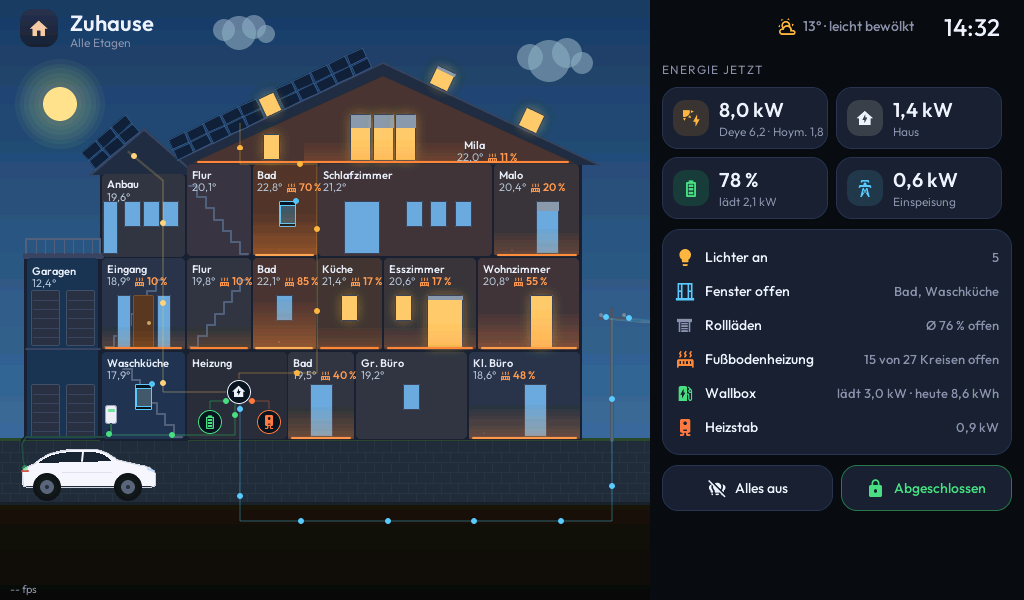
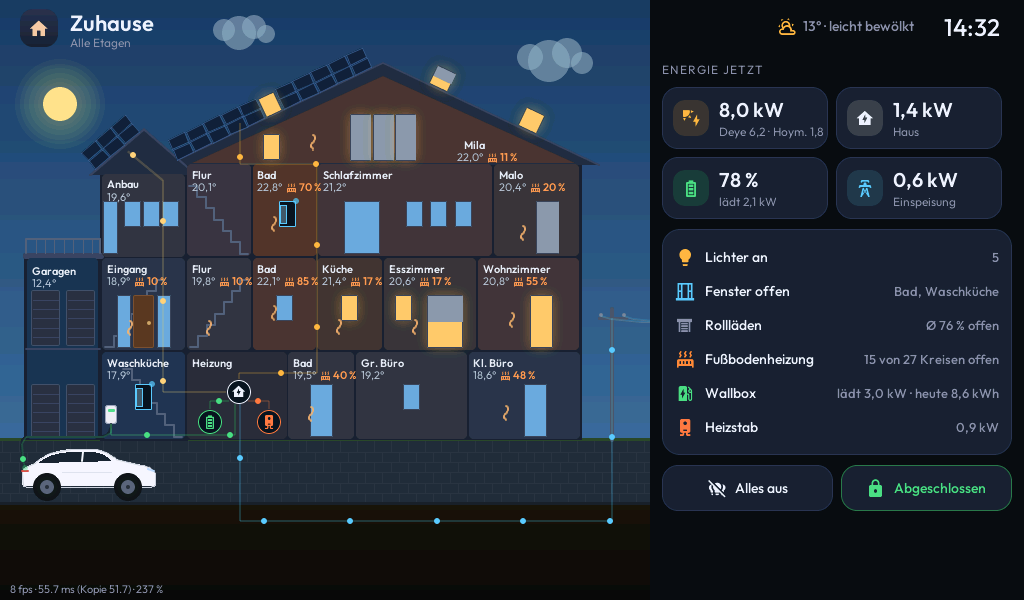
Fußbodenheizung: aufsteigende Wärmewellen statt glühendem Boden (#1)
Glutlinie und Farbverlauf am Boden entfallen; feine Wärmewellen steigen auf und verblassen, Anzahl, Tempo und Höhe folgen der Ventilöffnung. Vorschau wartet auf das erste Bild statt fest 4 s. Screenshots und Demo-GIF neu gerendert.

Claude-Session: https://claude.ai/code/session_01DgtLp9KL3ghCu5CXX829wd

diff --git a/core/house.h b/core/house.h
@@ -5,7 +5,7 @@
 //    Solarmodule, Raumfarben (nach Temperatur), Garagen, Hof, Auto, Strommast.
 //    Neu gezeichnet wird nur, wenn sich Tag/Nacht oder eine Temperatur ändert.
 //  * Darüber liegen LVGL-Objekte für alles, was lebt: Fenster (Licht, Rollladen,
-//    offen), Heizung (Glutlinie, Funken), Energiefluss (Punkte), Beschriftungen.
+//    offen), Heizung (aufsteigende Wärmewellen), Energiefluss (Punkte), Beschriftungen.
 //  * Rechts eine Seitenleiste: Übersicht oder der angetippte Raum.
 //
 // Koordinaten unten sind die des Mockups (viewBox -24 0 692 640) und werden
@@ -129,10 +129,10 @@ struct RoomState {
   bool smoke = false;
   // Objekte
   lv_obj_t *hit = nullptr, *name = nullptr, *temp_l = nullptr, *chip_i = nullptr, *chip_v = nullptr;
-  lv_obj_t *heat_glow = nullptr, *heat_line = nullptr, *alarm = nullptr;
+  lv_obj_t *alarm = nullptr;
   lv_obj_t *layer = nullptr;  // Behälter für alle Objekte des Raums
   int32_t gx = 0, gy = 0;     // seine Lage in der Szene
-  std::vector<lv_obj_t *> sparks;
+  std::vector<lv_obj_t *> waves;  // aufsteigende Wärmewellen
   std::vector<Pane *> panes;
 };
 
@@ -540,10 +540,10 @@ inline void h_cb(void *v, int32_t x) { lv_obj_set_height((lv_obj_t *) v, x); }
 inline void rot_cb(void *v, int32_t x) { lv_obj_set_style_transform_rotation((lv_obj_t *) v, x, 0); }
 inline void ty_cb(void *v, int32_t x) {
   lv_obj_set_style_translate_y((lv_obj_t *) v, -x, 0);
-  // Funken: oben verglühen
+  // Wärmewellen: schnell sichtbar, oben verblassen
   int32_t span = (int32_t) (intptr_t) lv_obj_get_user_data((lv_obj_t *) v);
   int32_t o = span > 0 ? (x < span / 6 ? x * 255 * 6 / span : 255 - (x - span / 6) * 255 / std::max<int32_t>(1, span * 5 / 6)) : 0;
-  lv_obj_set_style_opa((lv_obj_t *) v, LV_CLAMP(0, o, 230), 0);
+  lv_obj_set_style_opa((lv_obj_t *) v, LV_CLAMP(0, o, 190), 0);
 }
 
 inline void anim(void *var, lv_anim_exec_xcb_t cb, int32_t a, int32_t b, uint32_t ms, lv_anim_path_cb_t path = lv_anim_path_ease_out,
@@ -692,35 +692,20 @@ inline uint32_t heat_color(float v) {
 inline void paint_heat(int ri) {
   auto &d = rooms_def()[ri];
   auto &r = rooms[ri];
-  if (r.heat_line == nullptr)
+  if (r.waves.empty())
     return;
   float k = avg_open(r) / 100.0f;
   bool on = k > 0.005f;
-  set_hidden(r.heat_line, !on);
-  set_hidden(r.heat_glow, !on);
-  if (on) {
-    int32_t hh = lroundf(D(d.h) * (0.22f + 0.4f * k));
-    int32_t bottom = d.shape == ROOFROOM ? Y(172) : Y(d.y + d.h - 2);
-    lv_obj_set_y(r.heat_glow, bottom - hh - r.gy);
-    lv_obj_set_height(r.heat_glow, hh);
-    lv_obj_set_style_bg_grad_opa(r.heat_glow, lroundf(255 * (0.18f + 0.3f * k)), 0);
-    lv_obj_set_style_bg_color(r.heat_line, C(heat_color(45 + 35 * k)), 0);
-    lv_obj_set_style_shadow_color(r.heat_line, C(heat_color(40 + 30 * k)), 0);
-    uint32_t dur = lroundf(4200 - 2200 * k);
-    anim(r.heat_line, opa_cb, 255, lroundf(255 * (0.45f + 0.15f * k)), dur / 2, lv_anim_path_ease_in_out, -1, dur / 2);
-  } else {
-    lv_anim_delete(r.heat_line, opa_cb);
-  }
-  // Funken: Anzahl nach Breite und Öffnung
-  size_t want = on ? (size_t) std::max(1L, lroundf(D(d.w) / 56.0f * (0.4f + k))) : 0;
-  for (size_t i = 0; i < r.sparks.size(); i++) {
-    lv_obj_t *s = r.sparks[i];
+  // Wärmewellen: Anzahl nach Breite und Öffnung
+  size_t want = on ? (size_t) std::max(1L, lroundf(D(d.w) / 44.0f * (0.4f + k))) : 0;
+  for (size_t i = 0; i < r.waves.size(); i++) {
+    lv_obj_t *s = r.waves[i];
     bool use = i < want;
     set_hidden(s, !use);
     if (use) {
       int32_t span = lroundf(D(d.h) * (0.3f + 0.35f * k));
       lv_obj_set_user_data(s, (void *) (intptr_t) span);
-      anim(s, ty_cb, 0, span, lroundf(5500 - 2000 * k), lv_anim_path_ease_out, -1, 0, (uint32_t) ((i * 1700) % 5000));
+      anim(s, ty_cb, 0, span, lroundf(6000 - 2000 * k), lv_anim_path_linear, -1, 0, (uint32_t) ((i * 1900) % 6000));
     } else {
       lv_anim_delete(s, ty_cb);
     }
@@ -803,23 +788,31 @@ inline void build_heat(int ri) {
   bool roofroom = d.shape == ROOFROOM;
   float x0 = roofroom ? 186 : d.x + 4, x1 = roofroom ? 582 : d.x + d.w - 4;
   int32_t fy = roofroom ? Y(172) : Y(d.y + d.h - 4);
-  // Schein: senkrechter Verlauf von unten (orange) nach oben (transparent)
-  r.heat_glow = box(ui.scene, X(roofroom ? 300 : d.x + 1), fy, roofroom ? D(170) : D(d.w - 2), 10, 0xFF8A3D);
-  lv_obj_set_style_bg_grad_color(r.heat_glow, C(0xFF8A3D), 0);
-  lv_obj_set_style_bg_grad_dir(r.heat_glow, LV_GRAD_DIR_VER, 0);
-  lv_obj_set_style_bg_main_opa(r.heat_glow, LV_OPA_TRANSP, 0);
-  // Glutlinie mit Lichthof
-  r.heat_line = box(ui.scene, X(x0), fy, X(x1) - X(x0), 2, 0xFF8A3D, LV_OPA_COVER, 1);
-  lv_obj_set_style_shadow_width(r.heat_line, D(7), 0);
-  lv_obj_set_style_shadow_opa(r.heat_line, 110, 0);
-  // Funken (werden je nach Bedarf benutzt)
-  int n = std::max(1, (int) lroundf(D(x1 - x0) / 56.0f * 1.4f));
+  // Aufsteigende Wärmewellen: senkrechte Schlangenlinien wie im Heizungssymbol
+  // (werden je nach Bedarf benutzt). Zwei gespiegelte Formen für etwas Abwechslung.
+  static lv_point_precise_t wave[2][8];
+  static bool wave_init = false;
+  if (!wave_init) {
+    for (int j = 0; j < 8; j++)
+      for (int m = 0; m < 2; m++)
+        wave[m][j] = {(lv_value_precise_t) lroundf(3 + (m ? -2.2f : 2.2f) * sinf(j * 0.9f)), (lv_value_precise_t) (j * 2)};
+    wave_init = true;
+  }
+  // Lage nach dem goldenen Schnitt: auch die ersten wenigen verteilen sich über die ganze Breite
+  int n = std::max(1, (int) lroundf(D(x1 - x0) / 44.0f * 1.4f));
   for (int i = 0; i < n; i++) {
-    int32_t sx = X(x0) + (X(x1) - X(x0)) * (2 * i + 1) / (2 * n) + ((i * 37) % 13) - 6;
-    lv_obj_t *s = box(ui.scene, sx, fy - 4, 2, 2, 0xFFD9A0, LV_OPA_COVER, LV_RADIUS_CIRCLE);
+    float f = fmodf((i + 0.5f) * 0.618034f, 1.0f);
+    int32_t sx = X(x0) + lroundf((X(x1) - X(x0) - 6) * f);
+    lv_obj_t *s = lv_line_create(ui.scene);
+    lv_line_set_points(s, wave[i % 2], 8);
+    lv_obj_set_pos(s, sx, fy - 16);
+    lv_obj_set_style_line_color(s, C(0xFFB777), 0);
+    lv_obj_set_style_line_width(s, 2, 0);
+    lv_obj_set_style_line_rounded(s, true, 0);
+    lv_obj_remove_flag(s, LV_OBJ_FLAG_CLICKABLE);
     lv_obj_set_style_opa(s, 0, 0);
     set_hidden(s, true);
-    r.sparks.push_back(s);
+    r.waves.push_back(s);
   }
 }
 
@@ -1631,11 +1624,11 @@ inline void build() {
 
 // Heizkreise legen ihre Objekte beim ersten Wert an
 inline void ensure_heat(int ri) {
-  if (rooms[ri].heat_line == nullptr && !rooms[ri].circuits.empty()) {
+  if (rooms[ri].waves.empty() && !rooms[ri].circuits.empty()) {
     uint32_t from = lv_obj_get_child_count(ui.scene);
     build_heat(ri);
     adopt(rooms[ri], from);
-    // Beschriftung über die Glut legen
+    // Beschriftung über die Wärmewellen legen
     lv_obj_move_foreground(rooms[ri].name);
     lv_obj_move_foreground(rooms[ri].temp_l);
     lv_obj_move_foreground(rooms[ri].chip_i);

diff --git a/README.md b/README.md
@@ -43,7 +43,7 @@ All screenshots are rendered from the firmware in CI on every change, with sampl
 **The house (left)**
 - **Rooms coloured by temperature**, from cool blue to warm, with name, temperature and heating valve opening
 - **Windows that live:** they glow warm when the light is on, the roller shutter sits at its real position, and an open window swings its sash inwards with a pulsing dot. All three at the same time.
-- **Floor heating:** a thin ember line on the floor that breathes, a soft glow and a few rising sparks; brighter, faster and more of them the wider the valves are open
+- **Floor heating:** thin heat waves rising from the floor, like the heating icon; faster and more of them the wider the valves are open
 - **Energy flow:** dots run from the solar modules to the inverter, battery, heating rod, the car at the wallbox and, via the pole and the overhead line, to or from the grid. Faster with more power, pink when buying, blue when selling.
 - **Day and night** from the sun's position: sun or moon and stars, dark windows at night
 - **Smoke alarm:** the room pulses red and a warning appears
@@ -146,7 +146,7 @@ preview/            SDL preview, sample values, screenshot, GIF and social image
 | Flashing over USB fails | Hold **BOOT**, press **RST** briefly, release BOOT, then flash again |
 | Panel shows states but nothing switches | Tick **"Allow the device to perform Home Assistant actions"** in the ESPHome integration |
 | A room stays grey or shows "--°" | The climate entity of that room is missing or wrong in `house.yml` |
-| No heating glow | The floor heating entities report 0, or the valve level is not 0–1/0–100 |
+| No rising heat waves | The floor heating entities report 0, or the valve level is not 0–1/0–100 |
 | Wallbox stays "bereit" | Set `wallbox_power` and `wallbox_energy_today` to your wallbox entities |
 
 ## 🔗 Related projects
